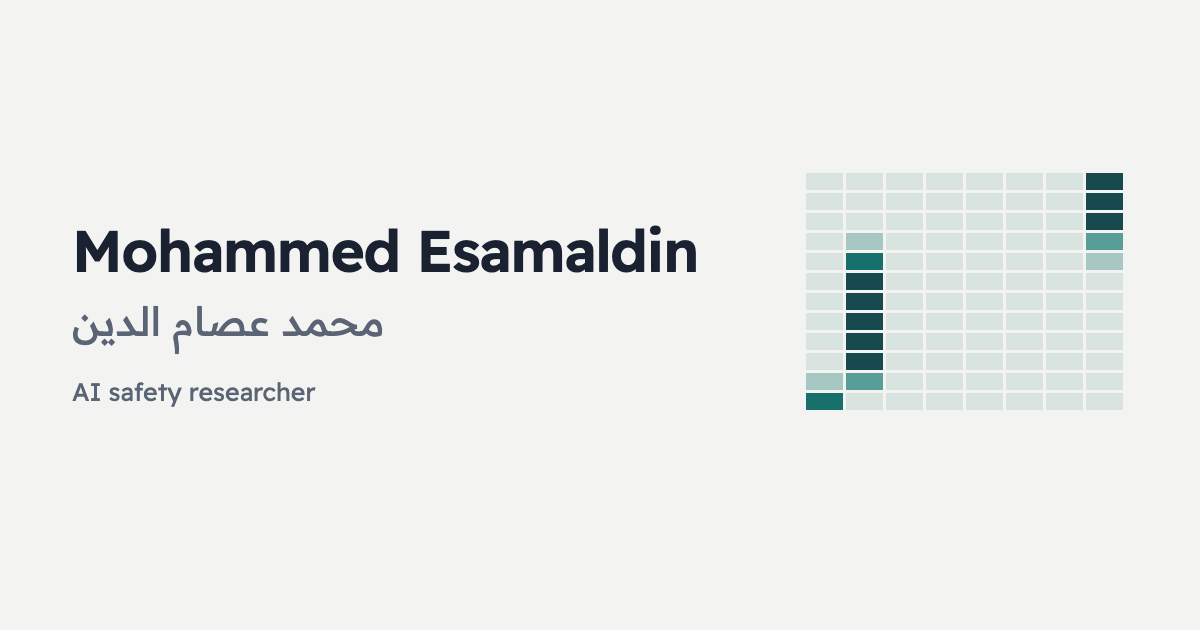
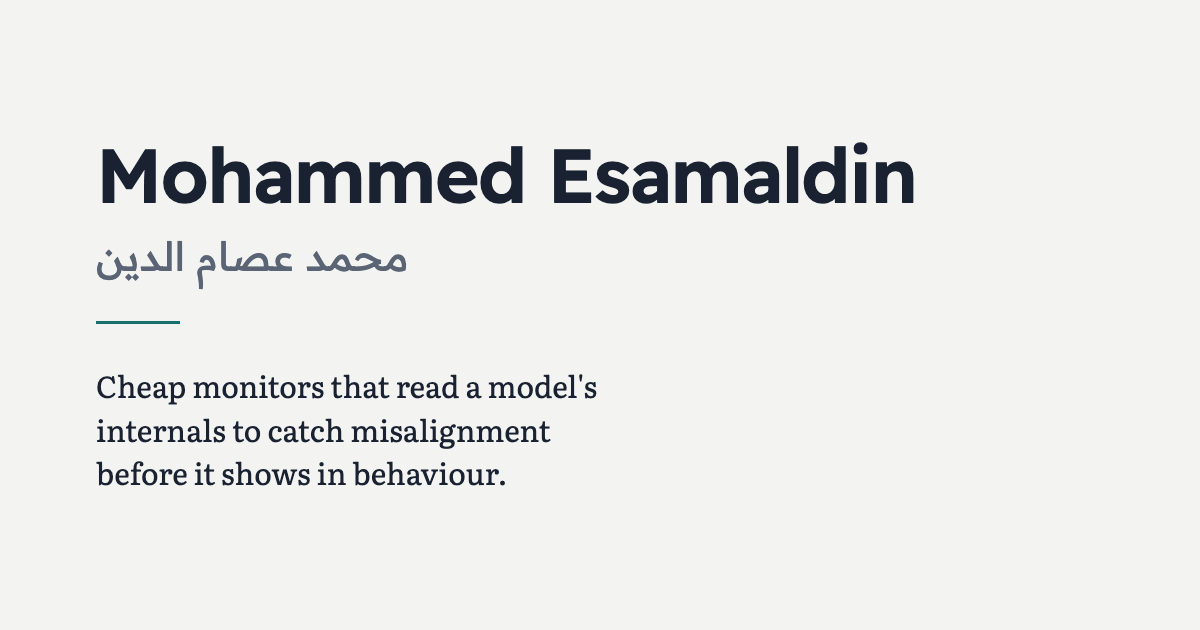
Remove the activation-grid hero figure
The grid read as distracting rather than calm, especially in dark mode where
the hot cells inverted to near-white and became the brightest thing on the
page. The hero is now purely typographic: name, Arabic name, statement,
credentials and links, with the name on a single line.

Drops the inline SVG, the reveal animation and the JS class bootstrap that
drove it (the page now has no animation at all), the ramp tokens and grid
styles, and the sentence in the Pythia entry that referred to the figure.
Rebuilds the Open Graph card without the grid.

Claude-Session: https://claude.ai/code/session_01F8GumQwCgN1qQGS1exeQGW

diff --git a/index.html b/index.html
@@ -20,7 +20,6 @@
 <link rel="preconnect" href="https://fonts.gstatic.com" crossorigin>
 <link rel="stylesheet" href="https://fonts.googleapis.com/css2?family=Readex+Pro:wght@400;600&family=Literata:ital,wght@0,400;0,600;1,400&display=swap">
 <link rel="stylesheet" href="assets/site.css">
-<script>document.documentElement.className += " js";</script>
 </head>
 <body>
 
@@ -57,116 +56,6 @@
       </ul>
     </div>
 
-    <figure class="figure">
-      <svg viewBox="0 0 360 300" role="img" aria-label="How a fact moves through Pythia-1.4B: picked up at the subject early, held in the middle layers, and handed to the last token late. From my activation-patching experiments." xmlns="http://www.w3.org/2000/svg">
-                <text class="grid-label" x="32" y="20" text-anchor="end">late</text>
-                <text class="grid-label" x="32" y="241" text-anchor="end">early</text>
-                <rect class="cell" data-step="3" style="--d:0ms" x="38" y="228" width="37" height="17"/>
-                <rect class="cell" data-step="0" style="--d:0ms" x="78" y="228" width="37" height="17"/>
-                <rect class="cell" data-step="0" style="--d:0ms" x="118" y="228" width="37" height="17"/>
-                <rect class="cell" data-step="0" style="--d:0ms" x="158" y="228" width="37" height="17"/>
-                <rect class="cell" data-step="0" style="--d:0ms" x="198" y="228" width="37" height="17"/>
-                <rect class="cell" data-step="0" style="--d:0ms" x="238" y="228" width="37" height="17"/>
-                <rect class="cell" data-step="0" style="--d:0ms" x="278" y="228" width="37" height="17"/>
-                <rect class="cell" data-step="0" style="--d:0ms" x="318" y="228" width="37" height="17"/>
-                <rect class="cell" data-step="1" style="--d:114ms" x="38" y="208" width="37" height="17"/>
-                <rect class="cell" data-step="2" style="--d:114ms" x="78" y="208" width="37" height="17"/>
-                <rect class="cell" data-step="0" style="--d:114ms" x="118" y="208" width="37" height="17"/>
-                <rect class="cell" data-step="0" style="--d:114ms" x="158" y="208" width="37" height="17"/>
-                <rect class="cell" data-step="0" style="--d:114ms" x="198" y="208" width="37" height="17"/>
-                <rect class="cell" data-step="0" style="--d:114ms" x="238" y="208" width="37" height="17"/>
-                <rect class="cell" data-step="0" style="--d:114ms" x="278" y="208" width="37" height="17"/>
-                <rect class="cell" data-step="0" style="--d:114ms" x="318" y="208" width="37" height="17"/>
-                <rect class="cell" data-step="0" style="--d:228ms" x="38" y="188" width="37" height="17"/>
-                <rect class="cell" data-step="4" style="--d:228ms" x="78" y="188" width="37" height="17"/>
-                <rect class="cell" data-step="0" style="--d:228ms" x="118" y="188" width="37" height="17"/>
-                <rect class="cell" data-step="0" style="--d:228ms" x="158" y="188" width="37" height="17"/>
-                <rect class="cell" data-step="0" style="--d:228ms" x="198" y="188" width="37" height="17"/>
-                <rect class="cell" data-step="0" style="--d:228ms" x="238" y="188" width="37" height="17"/>
-                <rect class="cell" data-step="0" style="--d:228ms" x="278" y="188" width="37" height="17"/>
-                <rect class="cell" data-step="0" style="--d:228ms" x="318" y="188" width="37" height="17"/>
-                <rect class="cell" data-step="0" style="--d:342ms" x="38" y="168" width="37" height="17"/>
-                <rect class="cell" data-step="4" style="--d:342ms" x="78" y="168" width="37" height="17"/>
-                <rect class="cell" data-step="0" style="--d:342ms" x="118" y="168" width="37" height="17"/>
-                <rect class="cell" data-step="0" style="--d:342ms" x="158" y="168" width="37" height="17"/>
-                <rect class="cell" data-step="0" style="--d:342ms" x="198" y="168" width="37" height="17"/>
-                <rect class="cell" data-step="0" style="--d:342ms" x="238" y="168" width="37" height="17"/>
-                <rect class="cell" data-step="0" style="--d:342ms" x="278" y="168" width="37" height="17"/>
-                <rect class="cell" data-step="0" style="--d:342ms" x="318" y="168" width="37" height="17"/>
-                <rect class="cell" data-step="0" style="--d:456ms" x="38" y="148" width="37" height="17"/>
-                <rect class="cell" data-step="4" style="--d:456ms" x="78" y="148" width="37" height="17"/>
-                <rect class="cell" data-step="0" style="--d:456ms" x="118" y="148" width="37" height="17"/>
-                <rect class="cell" data-step="0" style="--d:456ms" x="158" y="148" width="37" height="17"/>
-                <rect class="cell" data-step="0" style="--d:456ms" x="198" y="148" width="37" height="17"/>
-                <rect class="cell" data-step="0" style="--d:456ms" x="238" y="148" width="37" height="17"/>
-                <rect class="cell" data-step="0" style="--d:456ms" x="278" y="148" width="37" height="17"/>
-                <rect class="cell" data-step="0" style="--d:456ms" x="318" y="148" width="37" height="17"/>
-                <rect class="cell" data-step="0" style="--d:570ms" x="38" y="128" width="37" height="17"/>
-                <rect class="cell" data-step="4" style="--d:570ms" x="78" y="128" width="37" height="17"/>
-                <rect class="cell" data-step="0" style="--d:570ms" x="118" y="128" width="37" height="17"/>
-                <rect class="cell" data-step="0" style="--d:570ms" x="158" y="128" width="37" height="17"/>
-                <rect class="cell" data-step="0" style="--d:570ms" x="198" y="128" width="37" height="17"/>
-                <rect class="cell" data-step="0" style="--d:570ms" x="238" y="128" width="37" height="17"/>
-                <rect class="cell" data-step="0" style="--d:570ms" x="278" y="128" width="37" height="17"/>
-                <rect class="cell" data-step="0" style="--d:570ms" x="318" y="128" width="37" height="17"/>
-                <rect class="cell" data-step="0" style="--d:684ms" x="38" y="108" width="37" height="17"/>
-                <rect class="cell" data-step="4" style="--d:684ms" x="78" y="108" width="37" height="17"/>
-                <rect class="cell" data-step="0" style="--d:684ms" x="118" y="108" width="37" height="17"/>
-                <rect class="cell" data-step="0" style="--d:684ms" x="158" y="108" width="37" height="17"/>
-                <rect class="cell" data-step="0" style="--d:684ms" x="198" y="108" width="37" height="17"/>
-                <rect class="cell" data-step="0" style="--d:684ms" x="238" y="108" width="37" height="17"/>
-                <rect class="cell" data-step="0" style="--d:684ms" x="278" y="108" width="37" height="17"/>
-                <rect class="cell" data-step="0" style="--d:684ms" x="318" y="108" width="37" height="17"/>
-                <rect class="cell" data-step="0" style="--d:798ms" x="38" y="88" width="37" height="17"/>
-                <rect class="cell" data-step="3" style="--d:798ms" x="78" y="88" width="37" height="17"/>
-                <rect class="cell" data-step="0" style="--d:798ms" x="118" y="88" width="37" height="17"/>
-                <rect class="cell" data-step="0" style="--d:798ms" x="158" y="88" width="37" height="17"/>
-                <rect class="cell" data-step="0" style="--d:798ms" x="198" y="88" width="37" height="17"/>
-                <rect class="cell" data-step="0" style="--d:798ms" x="238" y="88" width="37" height="17"/>
-                <rect class="cell" data-step="0" style="--d:798ms" x="278" y="88" width="37" height="17"/>
-                <rect class="cell" data-step="1" style="--d:798ms" x="318" y="88" width="37" height="17"/>
-                <rect class="cell" data-step="0" style="--d:912ms" x="38" y="68" width="37" height="17"/>
-                <rect class="cell" data-step="1" style="--d:912ms" x="78" y="68" width="37" height="17"/>
-                <rect class="cell" data-step="0" style="--d:912ms" x="118" y="68" width="37" height="17"/>
-                <rect class="cell" data-step="0" style="--d:912ms" x="158" y="68" width="37" height="17"/>
-                <rect class="cell" data-step="0" style="--d:912ms" x="198" y="68" width="37" height="17"/>
-                <rect class="cell" data-step="0" style="--d:912ms" x="238" y="68" width="37" height="17"/>
-                <rect class="cell" data-step="0" style="--d:912ms" x="278" y="68" width="37" height="17"/>
-                <rect class="cell" data-step="2" style="--d:912ms" x="318" y="68" width="37" height="17"/>
-                <rect class="cell" data-step="0" style="--d:1026ms" x="38" y="48" width="37" height="17"/>
-                <rect class="cell" data-step="0" style="--d:1026ms" x="78" y="48" width="37" height="17"/>
-                <rect class="cell" data-step="0" style="--d:1026ms" x="118" y="48" width="37" height="17"/>
-                <rect class="cell" data-step="0" style="--d:1026ms" x="158" y="48" width="37" height="17"/>
-                <rect class="cell" data-step="0" style="--d:1026ms" x="198" y="48" width="37" height="17"/>
-                <rect class="cell" data-step="0" style="--d:1026ms" x="238" y="48" width="37" height="17"/>
-                <rect class="cell" data-step="0" style="--d:1026ms" x="278" y="48" width="37" height="17"/>
-                <rect class="cell" data-step="4" style="--d:1026ms" x="318" y="48" width="37" height="17"/>
-                <rect class="cell" data-step="0" style="--d:1140ms" x="38" y="28" width="37" height="17"/>
-                <rect class="cell" data-step="0" style="--d:1140ms" x="78" y="28" width="37" height="17"/>
-                <rect class="cell" data-step="0" style="--d:1140ms" x="118" y="28" width="37" height="17"/>
-                <rect class="cell" data-step="0" style="--d:1140ms" x="158" y="28" width="37" height="17"/>
-                <rect class="cell" data-step="0" style="--d:1140ms" x="198" y="28" width="37" height="17"/>
-                <rect class="cell" data-step="0" style="--d:1140ms" x="238" y="28" width="37" height="17"/>
-                <rect class="cell" data-step="0" style="--d:1140ms" x="278" y="28" width="37" height="17"/>
-                <rect class="cell" data-step="4" style="--d:1140ms" x="318" y="28" width="37" height="17"/>
-                <rect class="cell" data-step="0" style="--d:1254ms" x="38" y="8" width="37" height="17"/>
-                <rect class="cell" data-step="0" style="--d:1254ms" x="78" y="8" width="37" height="17"/>
-                <rect class="cell" data-step="0" style="--d:1254ms" x="118" y="8" width="37" height="17"/>
-                <rect class="cell" data-step="0" style="--d:1254ms" x="158" y="8" width="37" height="17"/>
-                <rect class="cell" data-step="0" style="--d:1254ms" x="198" y="8" width="37" height="17"/>
-                <rect class="cell" data-step="0" style="--d:1254ms" x="238" y="8" width="37" height="17"/>
-                <rect class="cell" data-step="0" style="--d:1254ms" x="278" y="8" width="37" height="17"/>
-                <rect class="cell" data-step="4" style="--d:1254ms" x="318" y="8" width="37" height="17"/>
-                <text class="grid-label" x="56.5" y="259" text-anchor="end" transform="rotate(-45 56.5 259)">Brazil</text>
-                <text class="grid-label" x="96.5" y="259" text-anchor="end" transform="rotate(-45 96.5 259)">is</text>
-                <text class="grid-label" x="136.5" y="259" text-anchor="end" transform="rotate(-45 136.5 259)">a</text>
-                <text class="grid-label" x="176.5" y="259" text-anchor="end" transform="rotate(-45 176.5 259)">country</text>
-                <text class="grid-label" x="216.5" y="259" text-anchor="end" transform="rotate(-45 216.5 259)">in</text>
-                <text class="grid-label" x="256.5" y="259" text-anchor="end" transform="rotate(-45 256.5 259)">the</text>
-                <text class="grid-label" x="296.5" y="259" text-anchor="end" transform="rotate(-45 296.5 259)">continent</text>
-                <text class="grid-label" x="336.5" y="259" text-anchor="end" transform="rotate(-45 336.5 259)">of</text>
-              </svg>      <figcaption>How a fact moves through Pythia-1.4B: picked up at the subject early, held in the middle layers, and handed to the last token late. From my activation-patching experiments.</figcaption>
-    </figure>
   </header>
 
   <section class="section" id="about">
@@ -214,7 +103,7 @@
       <article class="entry">
         <h3>Mechanistic Interpretability of Factual Recall in Pythia-1.4B</h3>
         <p class="meta">Independent research. 2026.</p>
-        <p>I used activation patching with TransformerLens to trace how subject information flows to the answer: it is picked up early, held at a post-subject position through the middle layers, and moved to the final token late. This is the result the figure at the top of this page shows.</p>
+        <p>I used activation patching with TransformerLens to trace how subject information flows to the answer: it is picked up early, held at a post-subject position through the middle layers, and moved to the final token late.</p>
         <!-- No Code link: there is no public repo for this work yet (checked github.com/MohammedEsamaldin, October 2026). -->
       </article>
 

diff --git a/assets/site.css b/assets/site.css
@@ -8,13 +8,6 @@
   --nile:  #17706B;
   --silt:  #D9E4E1;
 
-  /* 5-step activation ramp: silt -> nile -> ink */
-  --ramp-0: #D9E4E1;
-  --ramp-1: #A7C7C3;
-  --ramp-2: #589E98;
-  --ramp-3: #17706B;
-  --ramp-4: #18494E;
-
   --sans: "Readex Pro", "Segoe UI", system-ui, sans-serif;
   --serif: "Literata", Georgia, "Times New Roman", serif;
 
@@ -30,12 +23,6 @@
     --muted: #9AA3B2;
     --nile:  #5FB3AC;
     --silt:  #2A3445;
-
-    --ramp-0: #2A3445;
-    --ramp-1: #35564F;
-    --ramp-2: #42857C;
-    --ramp-3: #5FB3AC;
-    --ramp-4: #9FD6D1;
   }
 }
 
@@ -122,11 +109,7 @@ time, .meta, .now-date { font-variant-numeric: tabular-nums; }
    Hero
    --------------------------------------------------------------- */
 .hero {
-  display: grid;
-  grid-template-columns: minmax(0, 1fr) 360px;
-  gap: var(--gap);
-  align-items: start;
-  padding: 72px 0 56px;
+  padding: 84px 0 64px;
 }
 
 .hero h1 {
@@ -149,7 +132,8 @@ time, .meta, .now-date { font-variant-numeric: tabular-nums; }
 .statement {
   font-size: 22px;
   line-height: 1.45;
-  margin: 0 0 20px;
+  max-width: 34ch;
+  margin: 0 0 24px;
 }
 
 .credentials {
@@ -168,41 +152,6 @@ time, .meta, .now-date { font-variant-numeric: tabular-nums; }
   padding: 0;
   font-family: var(--sans);
   font-size: 15px;
-}
-
-/* ---------------------------------------------------------------
-   Activation grid
-   --------------------------------------------------------------- */
-.figure { margin: 0; }
-.figure svg { width: 100%; max-width: 360px; height: auto; display: block; }
-.figure figcaption {
-  font-family: var(--sans);
-  font-size: 15px;
-  line-height: 1.5;
-  color: var(--muted);
-  margin-top: 14px;
-  max-width: 360px;
-}
-
-.grid-label { font-family: var(--sans); font-size: 13px; fill: var(--muted); }
-
-.cell { fill: var(--ramp-0); }
-.cell[data-step="1"] { fill: var(--ramp-1); }
-.cell[data-step="2"] { fill: var(--ramp-2); }
-.cell[data-step="3"] { fill: var(--ramp-3); }
-.cell[data-step="4"] { fill: var(--ramp-4); }
-
-/* The one animation on the page. Runs only when JS is present, so the
-   no-JS page renders the final state. Keyframes name only `from`, so
-   fill-mode:both holds silt through the delay, then eases to the cell's
-   own colour and stays there. */
-.js .cell {
-  animation: cell-reveal 350ms ease var(--d, 0ms) both;
-}
-@keyframes cell-reveal { from { fill: var(--ramp-0); } }
-
-@media (prefers-reduced-motion: reduce) {
-  .js .cell { animation: none; }
 }
 
 /* ---------------------------------------------------------------
@@ -351,14 +300,11 @@ time, .meta, .now-date { font-variant-numeric: tabular-nums; }
   .nav-inner { flex-wrap: wrap; align-items: flex-start; padding-top: 8px; padding-bottom: 8px; }
 
   .hero {
-    grid-template-columns: minmax(0, 1fr);
-    gap: 36px;
-    padding: 44px 0 36px;
+    padding: 48px 0 40px;
   }
   .hero h1 { font-size: 40px; }
   .name-ar { font-size: 22px; margin-bottom: 20px; }
   .statement { font-size: 20px; max-width: none; }
-  .figure svg, .figure figcaption { max-width: none; }
 
   .section {
     grid-template-columns: minmax(0, 1fr);
